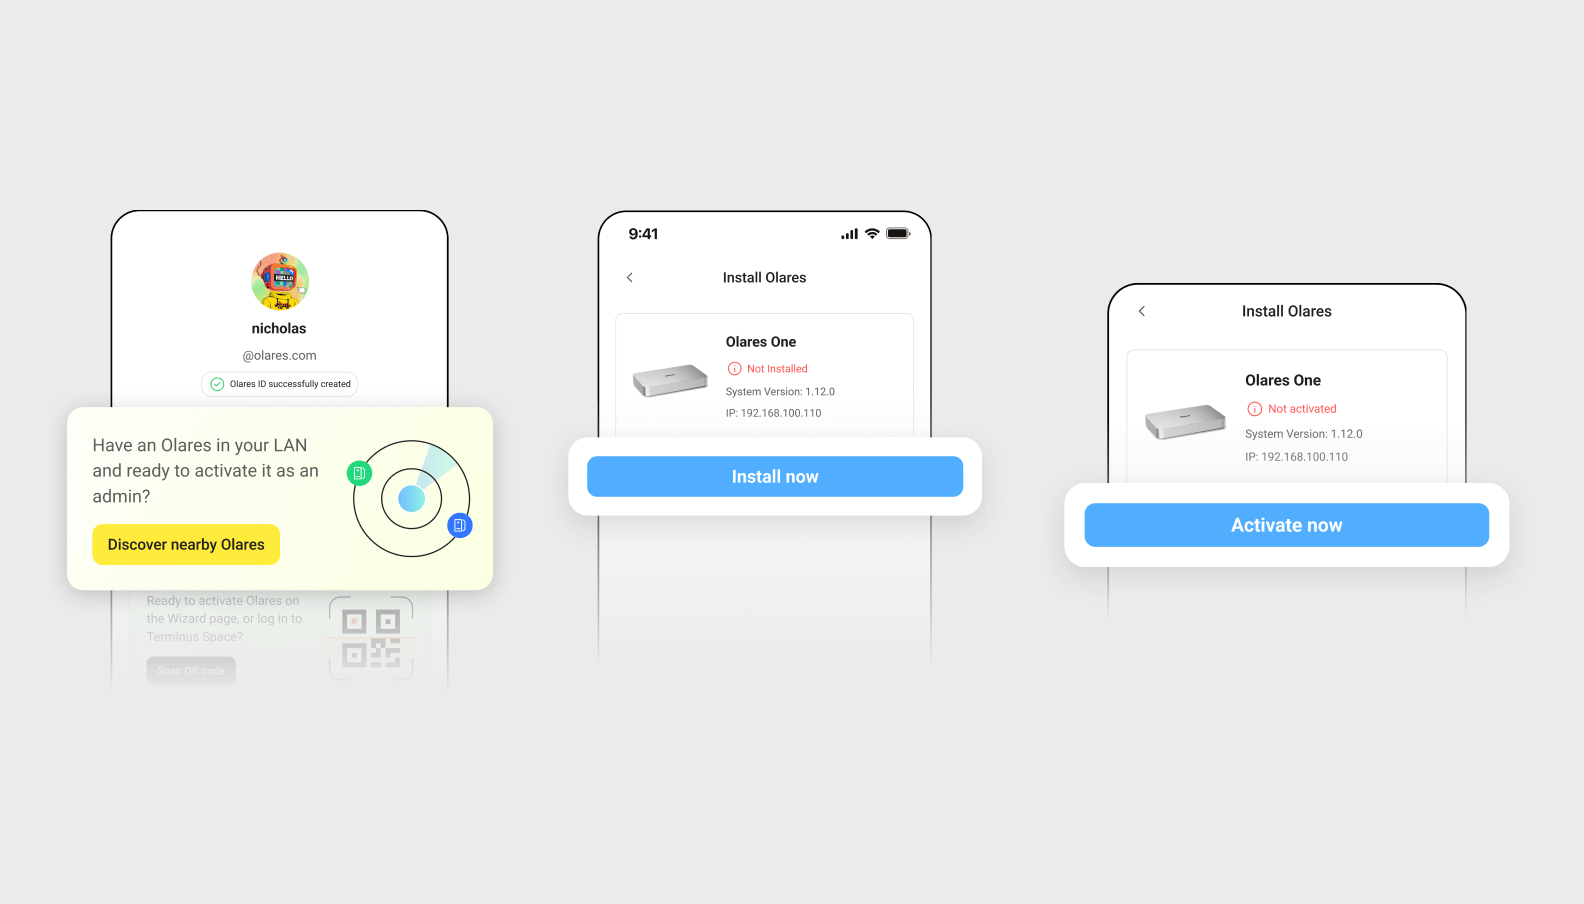
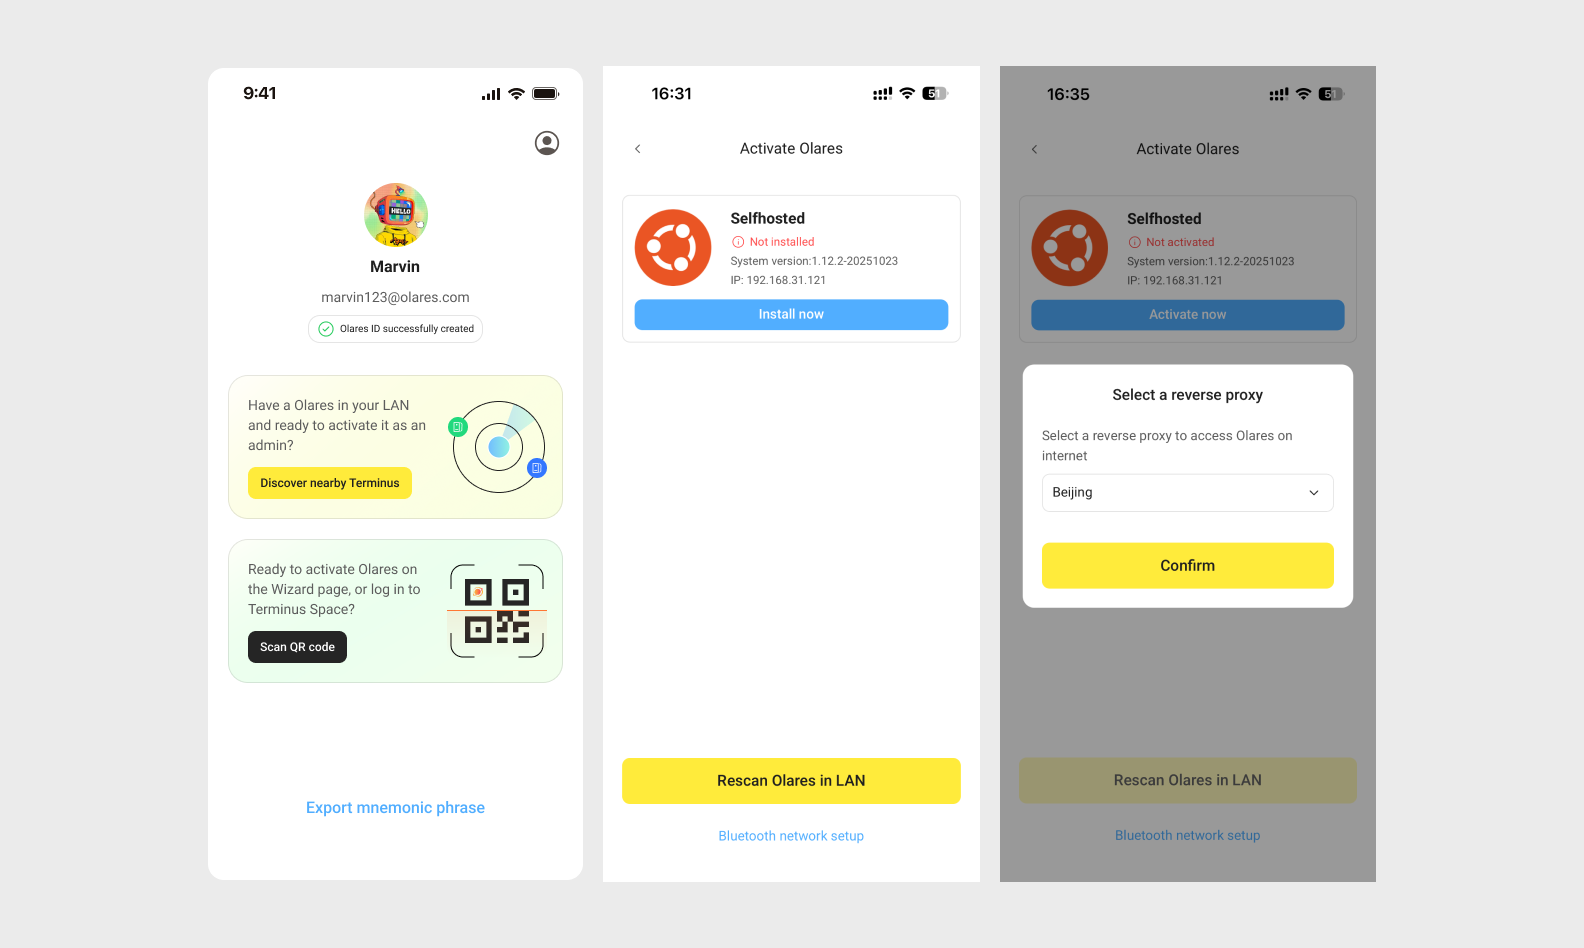
docs: update FRP setting and related activation process

diff --git a/docs/manual/olares/settings/change-frp.md b/docs/manual/olares/settings/change-frp.md
@@ -3,26 +3,21 @@ description: Learn how to change the reverse proxy option in Olares Settings to 
 ---
 # Change reverse proxy
 
-A reverse proxy acts as a secure gateway between your Olares and the open web, enabling you to expose local services to the public internet securely without needing a public IP. For users who do not own a public IP address, Olares offers three reverse options to facilitate external access to Olares applications and services:
+A reverse proxy acts as a secure gateway between your Olares and the open web, enabling you to expose local services to the public internet securely without needing a public IP. For users who do not own a public IP address, Olares offers the following reverse proxy options to facilitate external access to Olares applications:
 
-- **Cloudflare Tunnel** – Recommended for most users worldwide.
-
-- **Olares Tunnel** – Optimized for users in mainland China with different regional IDC options. 
-
-- **Self-built FRP** – Ideal for users with their own FRP servers.
+- **Olares Tunnel** – Official reverse proxy nodes maintained by Olares across multiple regions.
+- **Self-built FRP** – Use your own FRP server for fully customized control.
 
 ## Change your reverse proxy option
 
-To change your reverse proxy option:
+You can change your reverse proxy configuration at any time.
 
  ![Change reverse proxy](/images/manual/olares/set-reverse-proxy.png#bordered)
 
-1. Open Settings, then navigate to **Network** > **Reverse Proxy**.
-2. Choose your preferred reverse proxy option. If you select Self-built FRP, you’ll need to provide the server address, port, and authentication method.
+1. Open **Settings**, then go to **Network** > **Reverse Proxy**.
+2. Select your preferred reverse proxy option:
+   - **Olares Tunnel**: Choose a node that’s geographically closest to you for optimal performance.
+   
+   - **Self-built FRP**: Enter your own FRP server address, port, and authentication information.
 
 3. Click **Save** to apply your changes.
-
-:::warning Change with caution
-- Olares sets a default reverse proxy option during installation. Changing this setting may affect connectivity—proceed with caution.
-- Switching your reverse proxy between Cloudflare Tunnel and Olares Tunnel will also change your data plan and benefits, as they are separate cloud network services with different pricing and features. 
-:::

diff --git a/docs/manual/get-started/install-and-activate-olares.md b/docs/manual/get-started/install-and-activate-olares.md
@@ -8,10 +8,18 @@ To avoid activation failures, ensure that both your phone and the Olares device 
 
 1. Open LarePass app on your phone.
 2. On your account activation page, tap **Discover nearby Olares**. LarePass will list the detected Olares instances in the same network.
-2. Select the target Olares device from the list and tap **Install now**.
-3. When the installation completes, tap **Activate now**. Olares will enter the activation process, including initial configuration and network setup.
-4. Follow the on-screen instructions to reset the login password for Olares, then tap **Complete**.
+2. Select the target Olares instance from the list and tap **Install now**.
+3. When the installation completes, click **Activate now**.
+4. In the **Select a reverse proxy** dialog, select a node that is closer to your geographical location. The installer will then configure HTTPs certificate and DNS for Olares. 
 
-![Activate Olares via LarePass](/images/manual/get-started/activate-olares-mdns.png#bordered)
+   ![ISO Activate](/images/manual/larepass/iso-activate.png#bordered)
+   :::tip Note
+   - You can change this setting later on the [Change reverse proxy](../olares/settings/change-frp.md) page in Olares.   
+   - If your Olares device is connected to a public IP network, this step will be skipped automatically.
+   :::
+5. Follow the on-screen instructions to set the login password for Olares, then tap **Complete**.
+
+
+   ![ISO Activate-2](/images/manual/larepass/iso-activate-2.png#bordered)
 
 Once activation is complete, LarePass will display the desktop address of your Olares device, such as `https://desktop.marvin123.olares.com`.

diff --git a/docs/zh/manual/get-started/install-and-activate-olares.md b/docs/zh/manual/get-started/install-and-activate-olares.md
@@ -7,14 +7,17 @@ search: false
 :::
 
 1. 打开 LarePass，在账号激活页面点击**发现附近的 Olares**。LarePass 将列出同一网络中检测到的 Olares 实例。
-2. 选择标记为 **Container** 的 Olares 设备，点击**立即安装**。
-3. 安装完成后，点击**立即激活**。Olares 将开始激活流程，包括初始配置和网络设置。
-4. 按照屏幕提示重置 Olares 的登录密码，然后点击**完成**。
+2. 从列表中选择目标 Olares 实例，并点击**立即安装**。
+3. 安装完成后，点击**立即激活**。
+4. 在**选择反向代理**对话框中，选择一个地理位置离你较近的节点并点击**确认**。安装程序会自动为 Olares 配置 HTTPS 证书和 DNS。
+   ![ISO 激活](/images/manual/larepass/iso-activate.png#bordered)
+   :::tip 提示
+    - 你可以稍后在 Olares 中的 [更改反向代理](../olares/settings/change-frp.md) 页面调整此设置。
+    - 如果你的 Olares 设备连接的是公网 IP 网络，此步骤会自动跳过。  
+      :::
+   
+5. 按照屏幕提示设置 Olares 的登录密码，然后点击**完成**。
 
-![使用 LarePass 激活 Olares](/images/zh/manual/get-started/activate-olares-mdns.png#bordered)
+   ![ISO Activate-2](/images/manual/larepass/iso-activate-2.png#bordered)
 
 激活完成后，LarePass 将显示 Olares 设备的桌面地址，如 `https://desktop.marvin123.olares.cn`。
-
-![从浏览器访问 Olares](/images/zh/manual/get-started/access-olares-via-browser.png#bordered){width=30%}
-
-<!--@include: ./log-in-to-olares.md-->

diff --git a/docs/manual/larepass/activate-olares.md b/docs/manual/larepass/activate-olares.md
@@ -28,21 +28,7 @@ After successful activation, the LarePass app will automatically return to the h
 
 If you installed Olares via ISO on PVE or are using an Olares hardware device with ISO pre-installed:
 
-![ISO Activate](/images/manual/larepass/iso-activate.png#bordered)
-
-1. Open LarePass app.
-
-2. Tap **Discover nearby Olares**. Your Olares device should appear.
-
-3. Tap **Install now** to finish the installation process.
-
-4. Tap **Activate now** to activate Olares and complete initialization.
-
-5. Follow the prompt to set the login password for Olares.
-
-   ![ISO Activate](/images/manual/larepass/iso-activate-2.png#bordered)
-
-Once complete, you can access Olares via the provided URL and your credentials.
+<!--@include: ../get-started/install-and-activate-olares.md{9,25}-->
 
 :::tip Device not discovered?
 If your phone cannot connect to the same network as the Olares device, LarePass will not be able to discover your Olares. In this case, use the [Bluetooth network configuration](manage-olares.md#set-wi-fi-via-bluetooth) feature to connect Olares to the same Wi-Fi as your phone, then repeat the activation process.

diff --git a/docs/manual/get-started/activate-olares.md b/docs/manual/get-started/activate-olares.md
@@ -14,7 +14,14 @@ Use the Wizard URL and initial one-time password to activate. This process conne
 3. Select the system language.
 
    ![Select language](/images/manual/get-started/select-language.png#bordered)
-4. Activate Olares using LarePass app.
+4. Select a reverse proxy node that is geographically closest to your location. You can adjust this later on the [Change reverse proxy](../olares/settings/change-frp.md) page.
+      
+   ![Select FRP](/images/manual/get-started/wizard-frp.png#bordered)
+   :::tip Note
+   If your Olares device is connected to a public IP network, this step will be skipped automatically.
+   :::
+
+5. Activate Olares using LarePass app.
 
    a. Open LarePass app, and tap **Scan QR code** to scan the QR code on the Wizard page and complete the activation.
    :::warning Same network required for admin users

diff --git a/docs/zh/manual/get-started/activate-olares.md b/docs/zh/manual/get-started/activate-olares.md
@@ -14,7 +14,12 @@ search: false
 3. 选择系统语言。
 
    ![选择语言](/images/manual/get-started/select-language.png#bordered)
-4. 使用 LarePass 应用激活 Olares。
+4. 选择一个距你所在位置最近的反向代理节点。你也可以在 Olares 的在[更改反向代理](../olares/settings/change-frp.md)页面进行调整。
+   ![选择 FRP](/images/zh/manual/get-started/wizard-frp.png#bordered)
+   :::tip 提示
+   如果你的 Olares 设备连接的是公网 IP 网络，此步骤会自动跳过。
+   :::
+5. 使用 LarePass 应用激活 Olares。
 
    a. 打开 LarePass 应用，点击**扫描二维码**，扫描向导页面上的二维码完成激活。
    :::warning 网络要求

diff --git a/docs/zh/manual/get-started/install-linux-iso.md b/docs/zh/manual/get-started/install-linux-iso.md
@@ -70,7 +70,7 @@ description: 通过官方 ISO 镜像在物理机上安装 Olares 系统，包括
    check Olaresd: success
    check Containerd: success
    ```
-<!--@include: ./install-and-activate-olares.md{4,16}-->
+<!--@include: ./install-and-activate-olares.md-->
 
 <!--@include: ./log-in-to-olares.md-->
 
